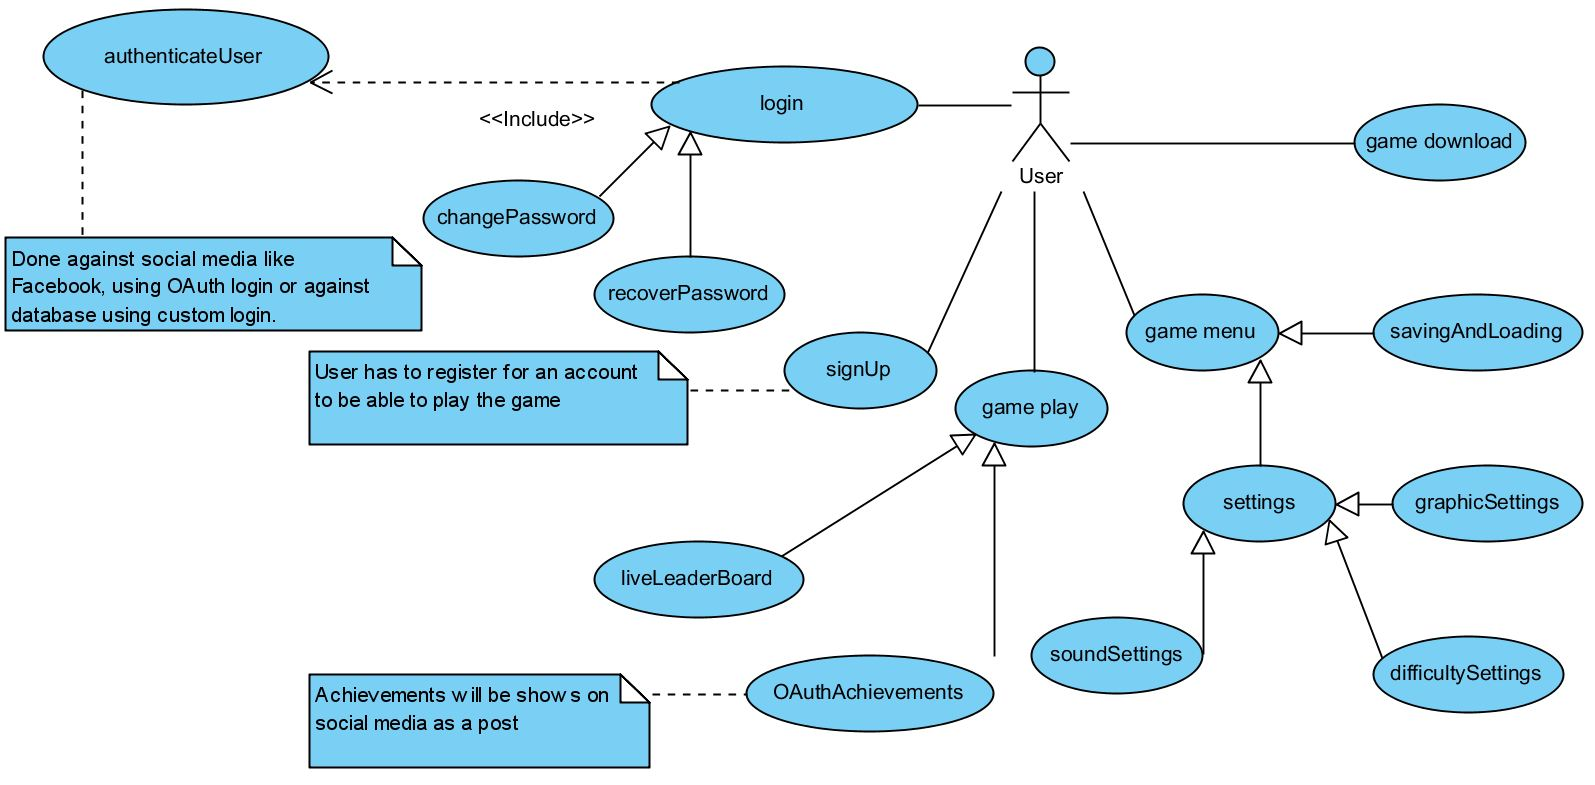
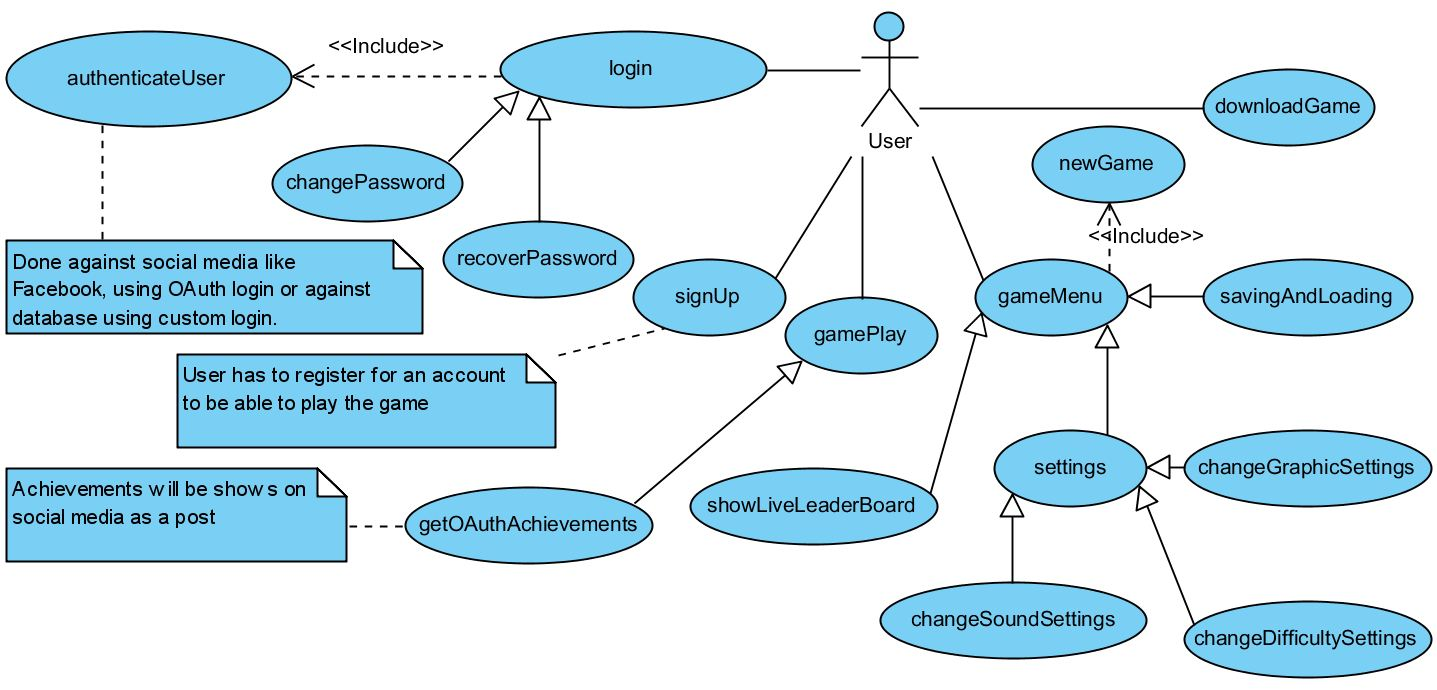
Made corrections and added use case diagrams
Changed some of the concrete use case names to verbs, that was not
verbs.
Moved showLiveLeadedBoard to inherit from game menu and not game play.
Added new game and included it in game menu.
Corrected some names to CamelCase, that was not already CamelCase.
Added four sub-level use case diagrams: Login, Sign up and Game menu.

diff --git a/Documentation/Vision and Scope.tex b/Documentation/Vision and Scope.tex
@@ -117,6 +117,7 @@
 			17/05/2014	\> Version 1.0	\> Document Created 							\> Nico Taljaard \\
 			19/05/2014  \> Version 1.0  \> Added Vision									\> Martin Schoeman \\
 			21/05/2014  \> Version 1.0  \> Added High Level Use Case Diagram			\> Martin Schoeman\\
+			22/05/2014  \> Version 1.0  \> Added Sub Level Use Case Diagram				\> Martin Schoeman\\
 		\end{tabbing}
 
 	\newpage
@@ -176,10 +177,40 @@
 		\begin{figure}[ht!]
 		\centering
 		\includegraphics[width=180mm]{high_level_use_case_diagram}
-		\caption{High level use case}
+		\caption{High level use case diagram}
 		\label{overflow}
 		\end{figure}
 		
+		\vspace{0.2in}
 		
+		\newpage
+		\section*{\colorbox{blue}{\makebox[\textwidth-2\fboxsep][l]{\bfseries\color{white} Sub-level use case}}} \addcontentsline{toc}{section}{Sub-level use case}
+		
+		\vspace{0.2in}
+		
+		\begin{figure}[ht!]
+		\centering
+		\includegraphics[width=180mm]{login}
+		\caption{Login use case diagram}
+		\label{overflow}
+		\end{figure}
+		
+		\vspace{0.2in}
+		
+		\begin{figure}[ht!]
+		\centering
+		\includegraphics[width=180mm]{signup}
+		\caption{Sign up use case diagram}
+		\label{overflow}
+		\end{figure}
+		
+		\vspace{0.2in}
+		
+		\begin{figure}[ht!]
+		\centering
+		\includegraphics[width=180mm]{game_menu}
+		\caption{Game menu use case diagram}
+		\label{overflow}
+		\end{figure}
 
 \end{document}
